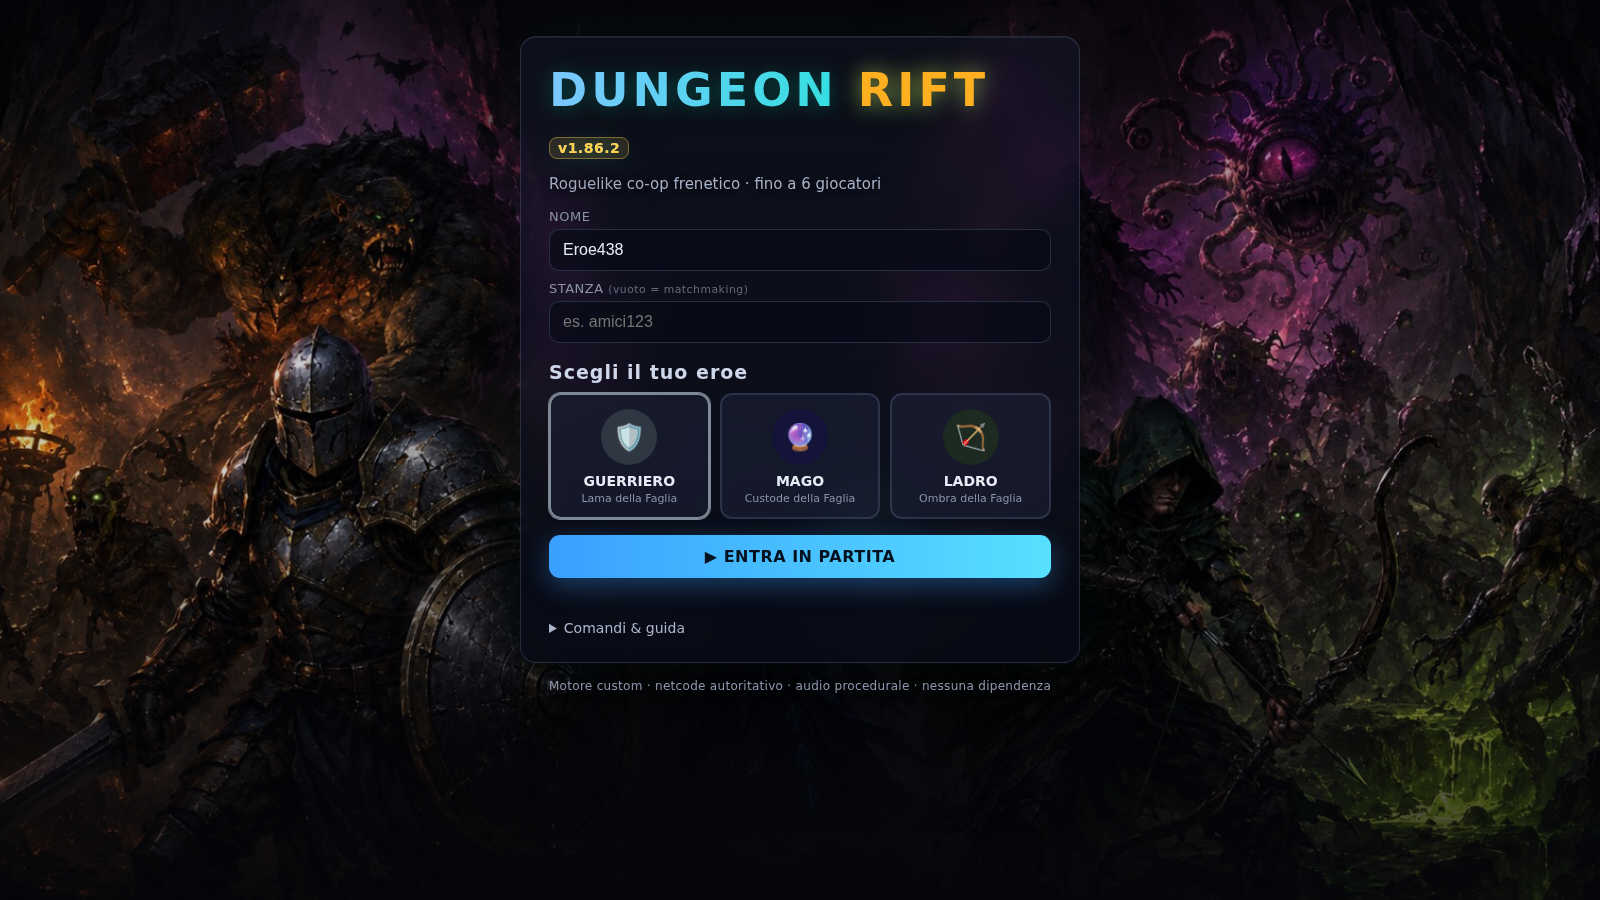
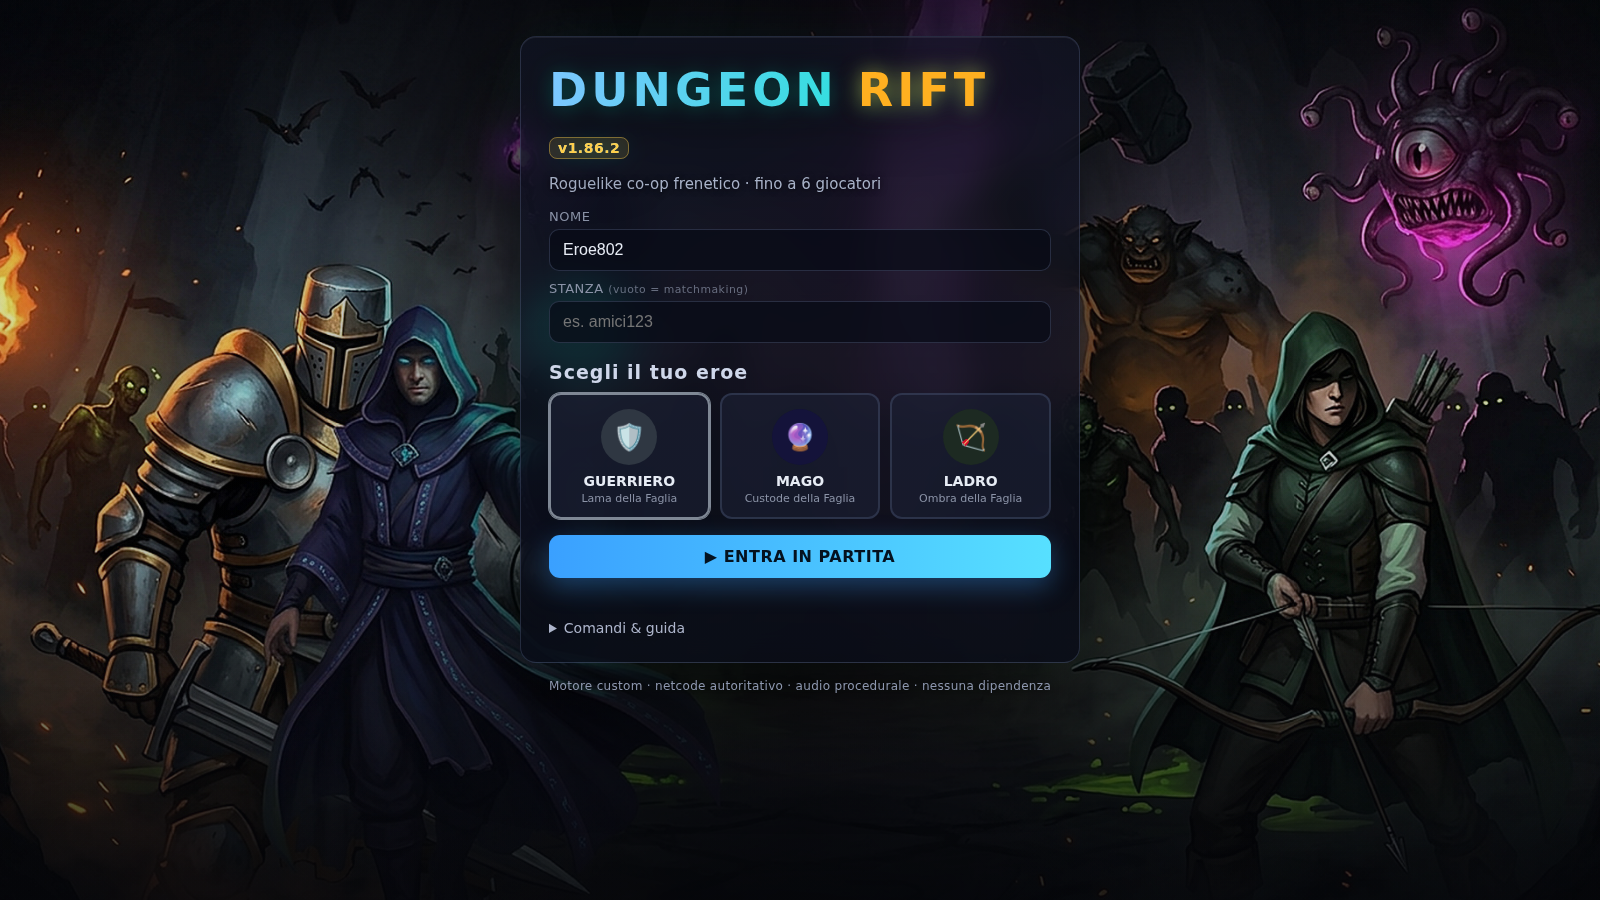
v1.89.2

diff --git a/shared/constants.js b/shared/constants.js
@@ -6,7 +6,7 @@
 })(typeof self !== 'undefined' ? self : this, function () {
   'use strict';
   const C = {
-    VERSION: '1.89.1',
+    VERSION: '1.89.2',
     // v1.66 — limiti del fendente in mischia (misurati: senza cap l'arco valeva 6x le uccisioni di un tiratore)
     MELEE_MAX_TARGETS: 5, MELEE_SPLASH: 0.55,
     // v1.51 — level up fra le ondate

diff --git a/ARTWORK.md b/ARTWORK.md
@@ -5,7 +5,7 @@ da dare al generatore di immagini. Il codice che le usa e' gia' scritto: basta m
 
 | Illustrazione | File | Formato | Stato |
 |---|---|---|---|
-| Sfondo del menu iniziale | `public/assets/art/menu_key_art.jpg` | 1672×941 (16:9) | **fatta** (v1.86) — originale in `menu_key_art.png` |
+| Sfondo del menu iniziale | `public/assets/art/menu_key_art.jpg` | **1920×1080** (16:9) | **rifatta** (v1.89.2) — la prima versione resta in `menu_key_art_v1.png` |
 | Scheda del bestiario | `public/assets/art/roster_overview.png` | 1024×1536 | fatta |
 | Concept del Troll | `public/assets/art/cave_brute_concept.png` | — | fatto |
 
@@ -17,11 +17,22 @@ da dare al generatore di immagini. Il codice che le usa e' gia' scritto: basta m
 `public/assets/art/menu_key_art.jpg` — **esattamente questo nome**. Il CSS lo carica da solo; se il file non
 c'e' resta il gradiente scuro di prima e non si rompe niente.
 
-> ✅ **Fatto in v1.86.** L'originale di Paolo e' `menu_key_art.png` (1672×941, 2,5 MB); il file che il gioco
-> carica e' la sua conversione JPEG qualita' 88 — **385 KB**, un settimo del peso, differenza invisibile a
-> schermo. Per rigenerarla dopo aver cambiato il PNG:
-> ```bash
-> convert public/assets/art/menu_key_art.png -strip -quality 88 public/assets/art/menu_key_art.jpg
+> ✅ **Rifatta in v1.89.2.** La seconda illustrazione arrivava a **1376×768**: portata a **1920×1080** e
+> salvata a qualita' 92 (**521 KB**). La prima versione resta in `menu_key_art_v1.png`.
+>
+> **Come si ingrandisce senza sporcare** (e' quello che ho usato): taglio esatto a 16:9, ingrandimento in
+> **due passaggi** — 2x Lanczos e poi giu' alla misura voluta, perche' un salto solo lascia i bordi molli —
+> e infine una **maschera di contrasto leggera** (raggio 1,4 · 58% · soglia 3): la soglia serve a non
+> alonare sui bordi netti, che in un'illustrazione dipinta sono dappertutto.
+>
+> ```python
+> from PIL import Image, ImageFilter
+> im = Image.open('sorgente.jpg').convert('RGB')
+> tw = int(round(im.height * 16 / 9))
+> if tw < im.width: x0 = (im.width - tw) // 2; im = im.crop((x0, 0, x0 + tw, im.height))
+> big = im.resize((im.width * 2, im.height * 2), Image.LANCZOS)
+> up = big.resize((1920, 1080), Image.LANCZOS).filter(ImageFilter.UnsharpMask(1.4, 58, 3))
+> up.save('public/assets/art/menu_key_art.jpg', quality=92, subsampling=0, optimize=True, progressive=True)
 > ```
 
 ### Requisiti tecnici

diff --git a/CHANGELOG.md b/CHANGELOG.md
@@ -2,6 +2,22 @@
 
 Tutte le modifiche rilevanti del progetto, versione per versione (dalla più recente).
 
+### [1.89.2] — 2026-09-05 · "Il menu cambia quadro"
+
+Illustrazione nuova nel menu: i tre eroi in primo piano — guerriero e mago a sinistra, ladro a destra — con
+l'orda, il troll, il beholder e la faglia alle spalle. Arrivava a **1376×768**, portata a **1920×1080**.
+
+L'ingrandimento non e' un `resize` e basta: taglio esatto a 16:9 (la sorgente era 1,79, serve 1,78), poi
+**due passaggi** — 2x Lanczos e giu' alla misura voluta, perche' un salto solo lascia i bordi molli — e una
+**maschera di contrasto con soglia** (1,4 · 58% · 3), che affila senza alonare sui bordi netti, che in
+un'illustrazione dipinta sono dappertutto. JPEG qualita' 92, **521 KB**.
+
+La composizione va d'accordo con la velatura della 1.86: gli eroi stanno nelle due fasce laterali, che
+restano accese, e sotto al pannello finisce la faglia — la parte che si puo' coprire. La prima illustrazione
+resta nel repo come `menu_key_art_v1.png`.
+
+---
+
 ### [1.89.1] — 2026-09-05 · "Dipingerli, non disegnarli"
 
 La prima stesura dei due boss era fatta di **poligoni piatti col contorno nero**: esattamente il contrario di

diff --git a/README.md b/README.md
@@ -1,4 +1,4 @@
-# ⚔ DUNGEON RIFT v1.89.0 — Roguelike Co-op Multiplayer 2D
+# ⚔ DUNGEON RIFT v1.89.2 — Roguelike Co-op Multiplayer 2D
 
 Roguelike frenetico per **fino a 6 giocatori**. Motore **custom a dipendenze zero** (Node.js + Canvas 2D):
 niente `npm install`, niente asset esterni — grafica, musica ed effetti sono **generati proceduralmente**.
